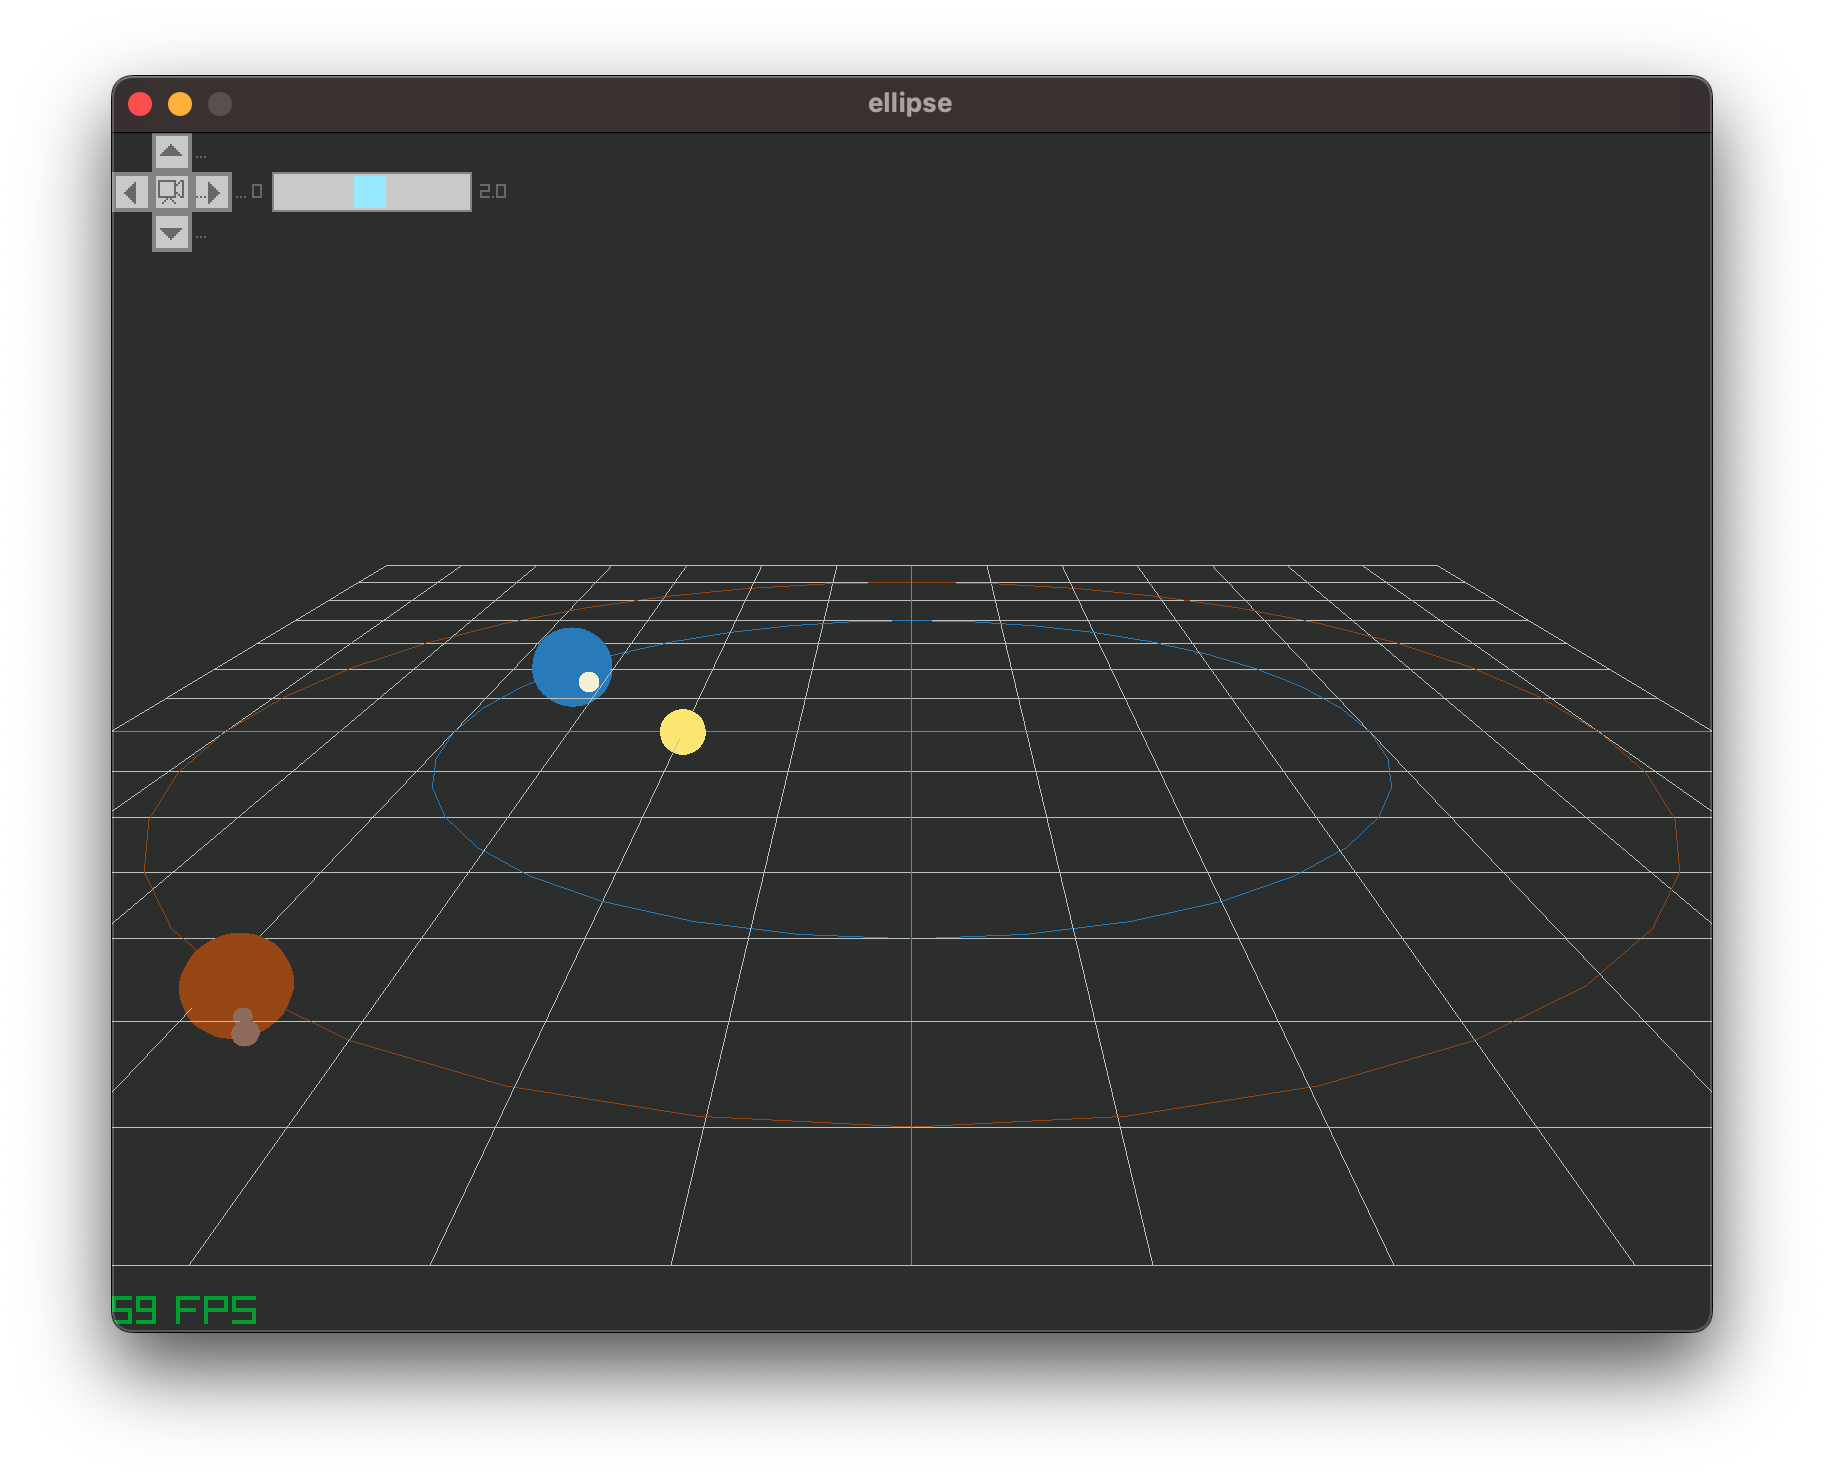
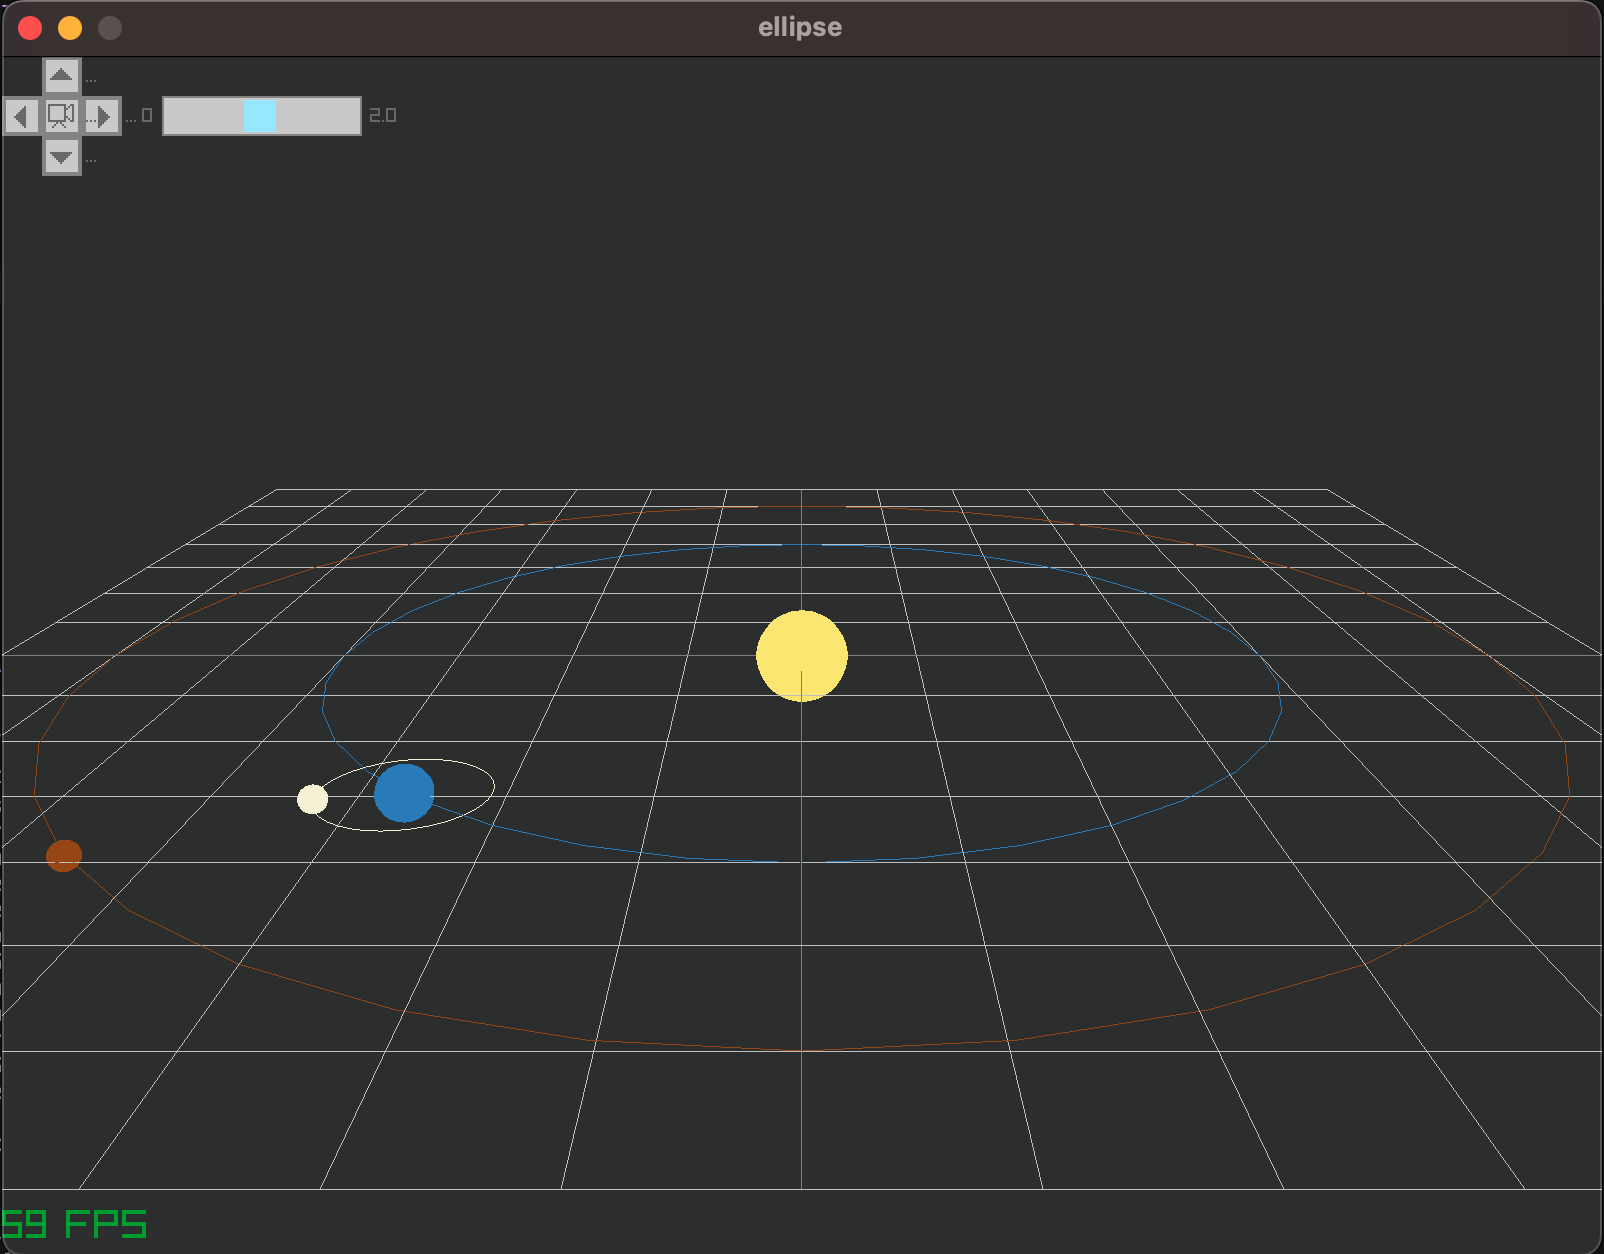
added mars, and trajectory offset

diff --git a/projects/solar_system/main_3d.py b/projects/solar_system/main_3d.py
@@ -6,11 +6,6 @@ from stellar_objects import Star, Planetoid
 width, height = 800, 600
 icon_width, icon_height = 20, 20
 
-# mars parameters
-distance_to_mars = [2, 3]
-r_mars_moon = [0.25, 0.35]
-mars_moon_speed_revolution = 0.5
-
 pr.init_window(width, height, "ellipse")
 pr.set_target_fps(60)
 
@@ -36,6 +31,13 @@ earth_moon = Planetoid(
     color=pr.Color(246, 241, 213, 255),
     speed_revolution=1,
     distance_to_center=3,
+)
+mars = Planetoid(
+    pr.Vector3(0, 0, 0),
+    radius=0.5,
+    color=pr.Color(150, 69, 20, 255),
+    speed_revolution=earth.speed_revolution / 1.88,
+    distance_to_center=30,
 )
 
 dl = 0  # t component in the ellipse coordinates
@@ -83,6 +85,9 @@ while not pr.window_should_close():
     earth_moon.update(
         dl=dl_moon, x_offset=earth.position.x, z_offset=earth.position.z
     )  # moon has an offset, i.e the position of the earth w/r the Sun
+    mars.update(
+        dl=dl, x_offset=0, z_offset=0
+    )  # mars has no offset, it rotates around the sun
 
     # rendering
     pr.begin_drawing()
@@ -91,9 +96,13 @@ while not pr.window_should_close():
 
     sun.draw()
     earth.draw()
-    earth.draw_trajectory()
+    earth.draw_trajectory(x_offset=0, z_offset=0)
 
     earth_moon.draw()
+    earth_moon.draw_trajectory(x_offset=earth.position.x, z_offset=earth.position.z)
+
+    mars.draw()
+    mars.draw_trajectory(x_offset=0, z_offset=0)
 
     pr.draw_grid(15, 5.0)
     pr.end_mode_3d()

diff --git a/projects/solar_system/stellar_objects.py b/projects/solar_system/stellar_objects.py
@@ -30,9 +30,9 @@ class Planetoid(Body):
         self.speed_revolution: int = speed_revolution
         self.distance_to_center: int = distance_to_center
 
-    def draw_trajectory(self):
+    def draw_trajectory(self, x_offset: float, z_offset: float):
         pr.draw_circle_3d(
-            pr.Vector3(0, 0, 0),  # center
+            pr.Vector3(x_offset, 0, z_offset),  # center
             self.distance_to_center,
             pr.Vector3(1, 0, 0),
             90,
@@ -47,7 +47,6 @@ class Planetoid(Body):
             dl * self.speed_revolution * 2 * math.pi
         )
         self.position.y = self.position.y
-        # self.move()
 
     def move(self):
         self.draw()
